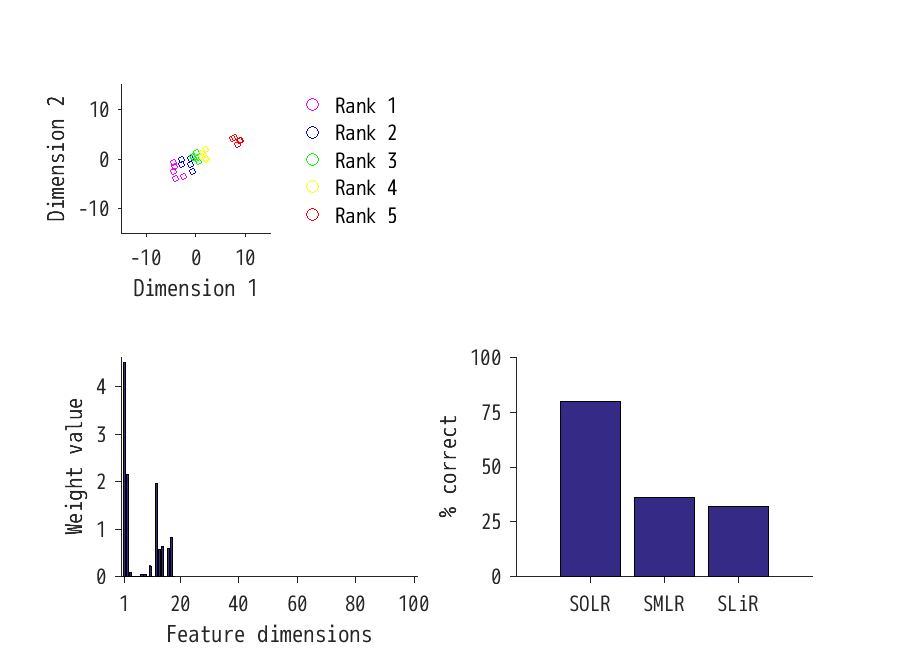
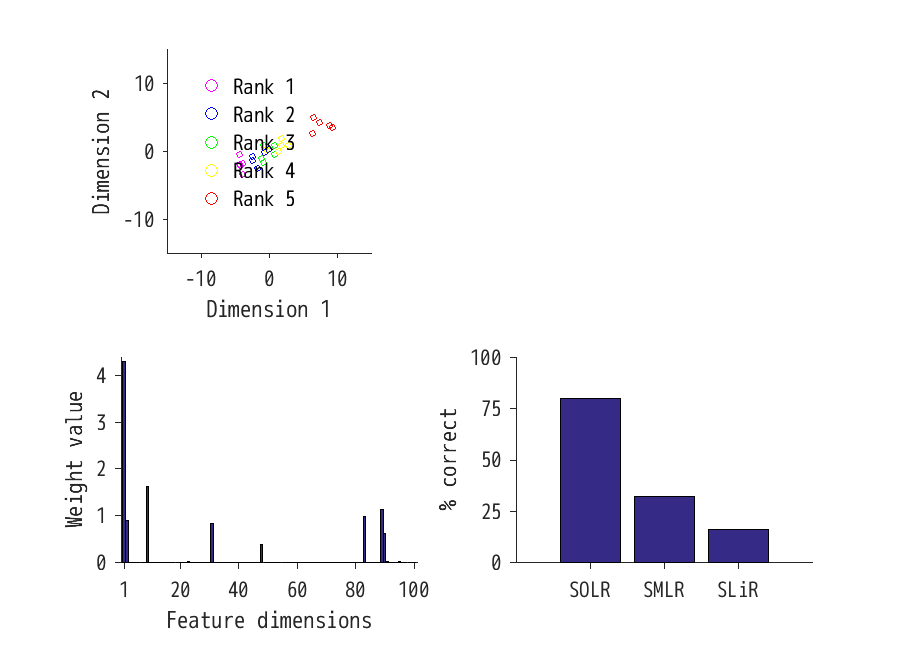
Add files via upload

diff --git a/matlab/demoComp_SOLRvsSMLRvsSLiR_20171227.m b/matlab/demoComp_SOLRvsSMLRvsSLiR_20171227.m
@@ -64,7 +64,9 @@ score4SOLR=(sum(predictedLabel_solr==label)./length(predictedLabel_solr)).*100;
 
 %plot the weights obtained
 subplot(2,2,3)
-bar(model.beta)
+weight=zeros(1,size(feature,2));
+weight(model.effectiveDim)=model.beta;
+bar(weight)
 xlabel('Feature dimensions','FontSize',FontSize)
 ylabel('Weight value','FontSize',FontSize)
 set(gca,'XTick',[1 20:20:numFeatureDims],'FontSize',FontSize)

diff --git a/matlab/demoSOLR_20171227.m b/matlab/demoSOLR_20171227.m
@@ -64,7 +64,9 @@ score4SOLR=(sum(predictedLabel_solr==label)./length(predictedLabel_solr)).*100;
 
 %plot the weights obtained
 subplot(2,2,3)
-bar(model.beta)
+weight=zeros(1,size(feature,2));
+weight(model.effectiveDim)=model.beta;
+bar(weight)
 xlabel('Feature dimension','FontSize',FontSize)
 ylabel('Weight value','FontSize',FontSize)
 set(gca,'XTick',[1 20:20:numFeatureDims],'FontSize',FontSize)
